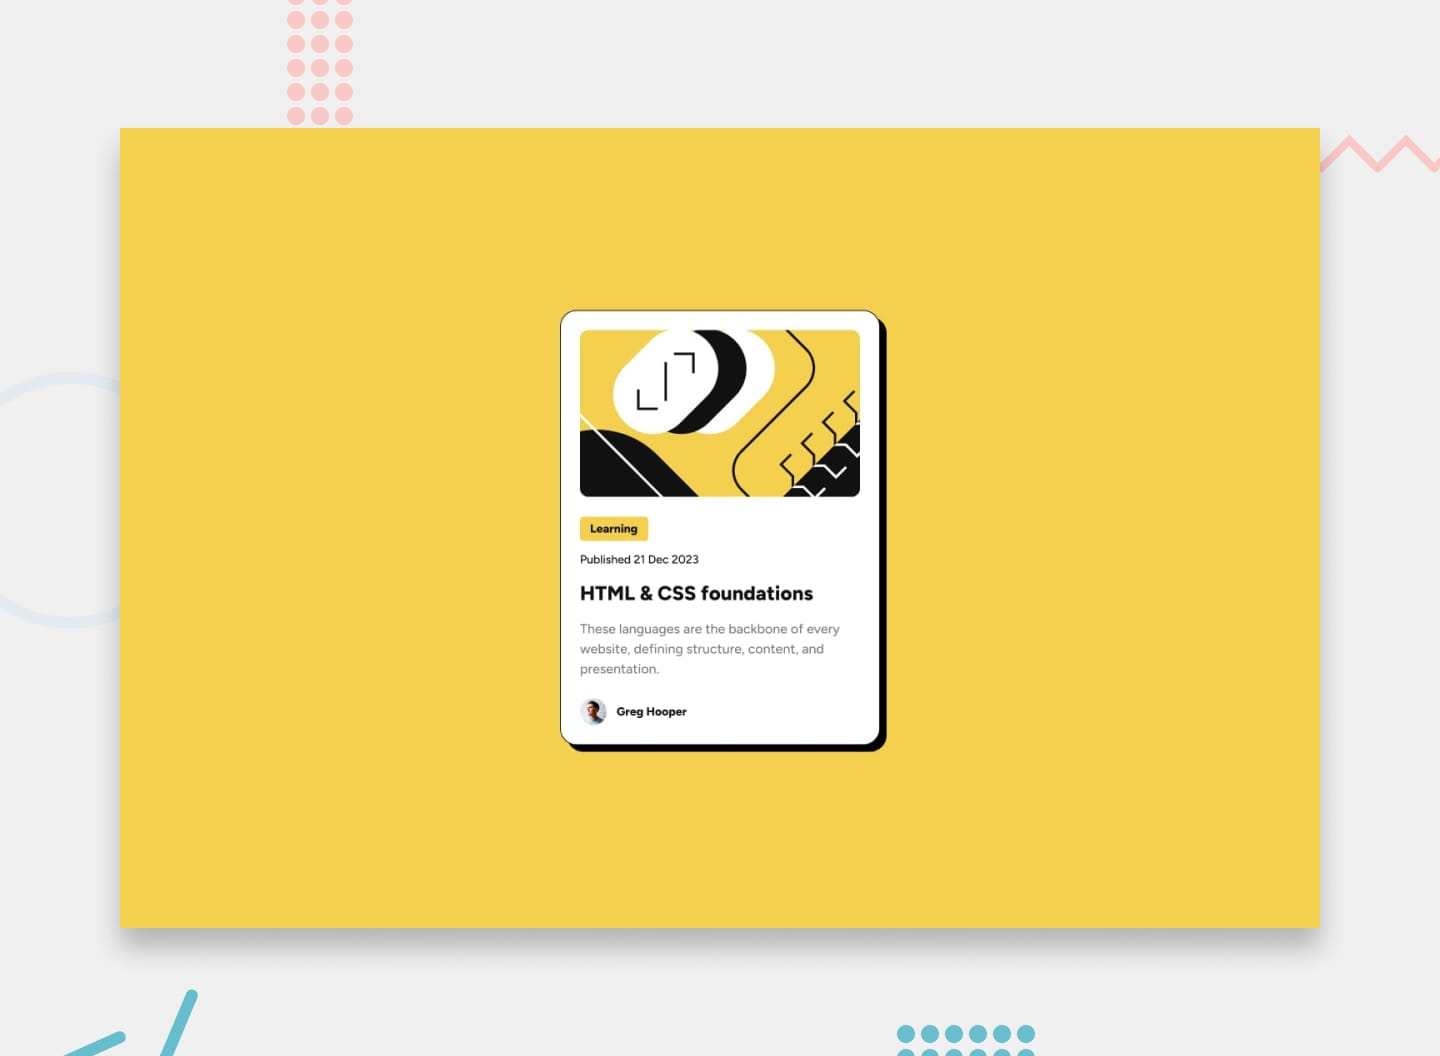
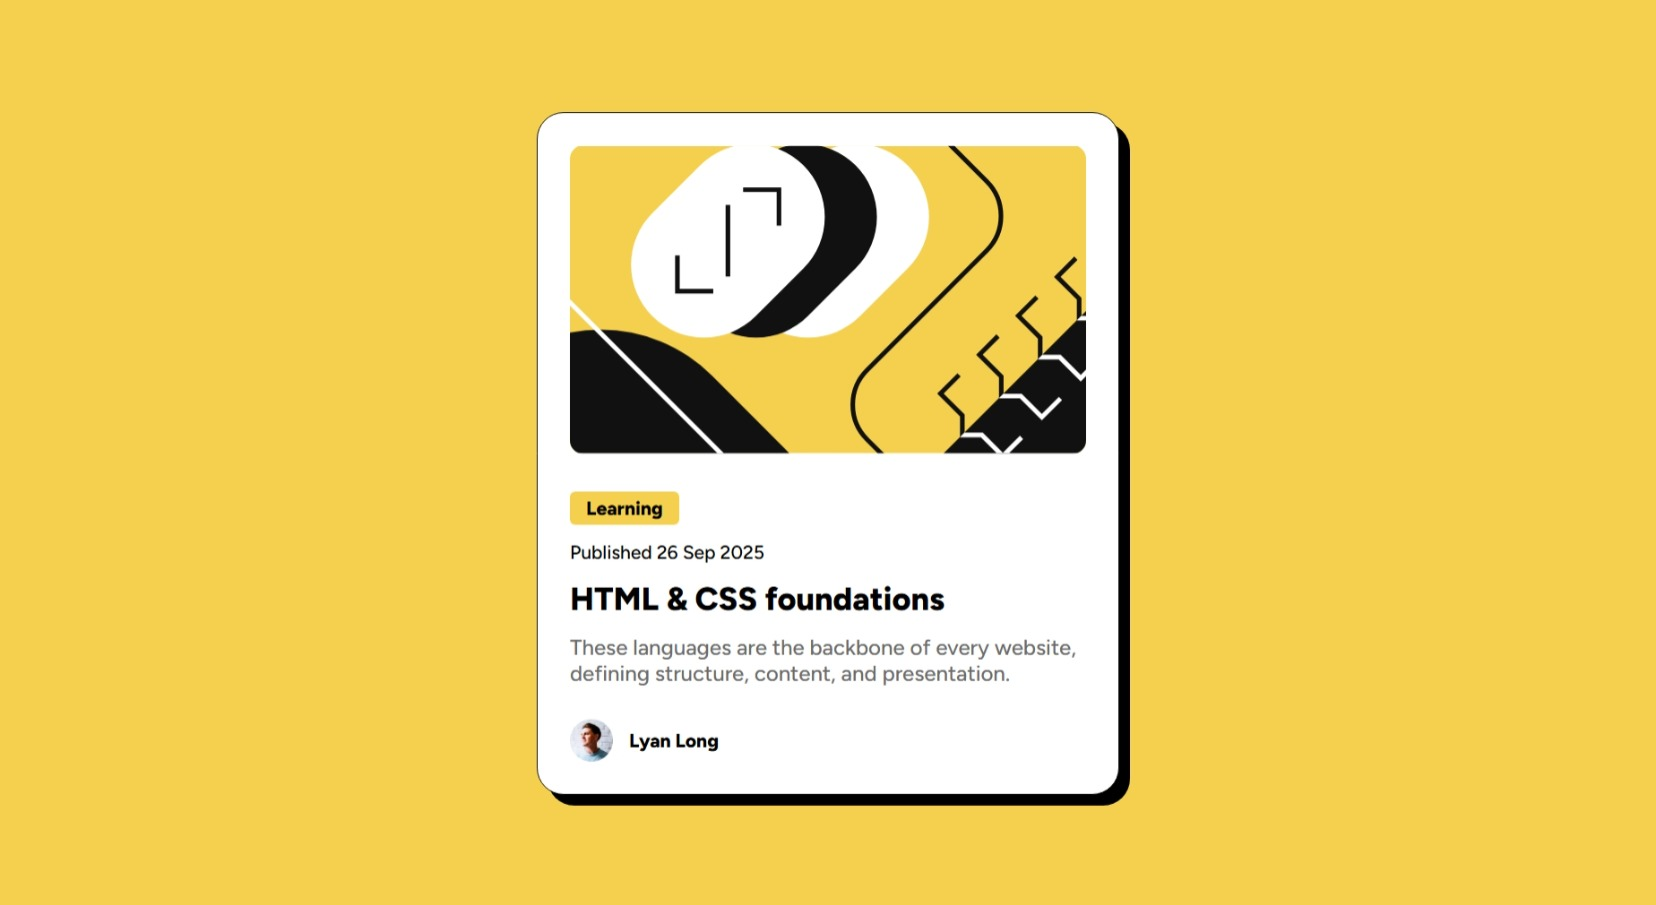
Finalize

diff --git a/styles.css b/styles.css
@@ -1,0 +1,129 @@
+/* ============================
+    FONTS SETUP
+============================ */
+@font-face {
+    font-family: 'Figtree';
+    src: url('./assets/fonts/static/Figtree-ExtraBold.ttf') format('truetype');
+    font-weight: 800;
+    font-style: normal;
+    line-height: 150%;
+    letter-spacing: 0px;
+}
+
+@font-face {
+    font-family: 'Figtree';
+    src: url('./assets/fonts/static/Figtree-Medium.ttf') format('truetype');
+    font-weight: 500;
+    font-style: normal;
+    line-height: 150%;
+    letter-spacing: 0px;
+}
+
+/* ============================
+   COLOR SYSTEM
+============================ */
+:root {
+    --White: hsl(0, 0%, 100%);
+    --Yellow: hsl(47, 88%, 63%);
+    --Gray-950: hsl(0, 0%, 7%);
+    --Gray-500: hsl(0, 0%, 42%);
+}
+
+body {
+    font-family: 'Figtree', sans-serif;
+    background-color: var(--Yellow);
+    margin: 0;
+    padding: 0;
+}
+
+/* ============================
+   BLOG PREVIEW CARD COMPONENT
+============================ */
+
+main {
+    display: flex;
+    justify-content: center;
+    align-items: center;
+    height: 100vh;
+    padding: 0px 24px;
+}
+
+p, h1, h2, h3, h4, h5, h6 {
+    margin: 0;
+}
+
+h1 {
+    font-weight: 800;
+    font-size: 24px;
+}
+
+h1:hover {
+    color: var(--Yellow);
+    cursor: pointer;
+}
+
+h1:focus {
+    color: var(--Yellow);
+}
+
+.card {
+    background-color: var(--White);
+    width: 384px;
+    height: auto;
+    display: flex;
+    flex-direction: column;
+    justify-content: space-between;
+    gap: 24px;
+    padding: 24px;
+    border-radius: 20px;
+    box-shadow: 8px 8px 0px #000000;
+    border: 1px solid var(--Gray-950);
+}
+
+.card__content {
+    gap: 12px;
+    display: flex;
+    flex-direction: column;
+    align-items: flex-start;
+    justify-content: flex-start;
+}
+
+.card__image img {
+    border-radius: 10px;
+    width: 100%;
+}
+
+.category {
+    background-color: var(--Yellow);
+    text-align: center;
+    padding: 4px 12px 4px 12px;
+    border-radius: 4px;
+    font-weight: 800;
+    font-size: 14px;
+}
+
+.published-date {
+    font-size: 14px;
+}
+
+.description {
+    font-weight: 500;
+    font-size: 16px;
+    color: var(--Gray-500);
+}
+
+.card__author {
+    display: flex;
+    align-items: center;
+    gap: 12px;
+}
+
+.card__author_img {
+    width: 32px;
+    height: 32px;
+}
+
+.card__author_name {
+    font-size: 14px;
+    font-weight: 800;
+}

diff --git a/index.html b/index.html
@@ -1,34 +1,42 @@
 <!DOCTYPE html>
 <html lang="en">
+
 <head>
   <meta charset="UTF-8">
-  <meta name="viewport" content="width=device-width, initial-scale=1.0"> <!-- displays site properly based on user's device -->
+  <meta name="viewport" content="width=device-width, initial-scale=1.0">
+  <!-- displays site properly based on user's device -->
 
   <link rel="icon" type="image/png" sizes="32x32" href="./assets/images/favicon-32x32.png">
-  
+  <link rel="stylesheet" href="./styles.css">
   <title>Frontend Mentor | Blog preview card</title>
-
-  <!-- Feel free to remove these styles or customise in your own stylesheet 👍 -->
-  <style>
-    .attribution { font-size: 11px; text-align: center; }
-    .attribution a { color: hsl(228, 45%, 44%); }
-  </style>
 </head>
+
 <body>
-
-  Learning
-
-  Published 21 Dec 2023
-
-  HTML & CSS foundations
-
-  These languages are the backbone of every website, defining structure, content, and presentation.
-
-  Greg Hooper
-  
-  <div class="attribution">
-    Challenge by <a href="https://www.frontendmentor.io?ref=challenge" target="_blank">Frontend Mentor</a>. 
-    Coded by <a href="#">Your Name Here</a>.
-  </div>
+  <main>
+    <div class="card">
+      <section class="card__image">
+        <img src="./assets/images/illustration-article.svg" alt="illustration-article">
+      </section>
+      <section class="card__content">
+        <div class="category">
+          <p>Learning</p>
+        </div>
+        <div class="published-date">
+          <p>Published 26 Sep 2025</p>
+        </div>
+        <h1>HTML & CSS foundations</h1>
+        <div class="description">
+          <p>
+            These languages are the backbone of every website, defining structure, content, and presentation.
+          </p>
+        </div>
+      </section>
+      <section class="card__author">
+        <img class="card__author_img" src="./assets/images/image-avatar.webp" alt="image-avatar">
+        <p class="card__author_name">Lyan Long</p>
+      </section>
+    </div>
+  </main>
 </body>
+
 </html>

diff --git a/README.md b/README.md
@@ -1,93 +1,50 @@
-# Frontend Mentor - Blog preview card
+# Frontend Mentor - Blog preview card solution
 
-![Design preview for the Blog preview card coding challenge](./preview.jpg)
+This is a solution to the [Blog preview card challenge on Frontend Mentor](https://www.frontendmentor.io/challenges/blog-preview-card-ckPaj01IcS). Frontend Mentor challenges help you improve your coding skills by building realistic projects. 
 
-## Welcome! 👋
+## Table of contents
 
-Thanks for checking out this front-end coding challenge.
+- [Overview](#overview)
+  - [The challenge](#the-challenge)
+  - [Screenshot](#screenshot)
+  - [Links](#links)
+- [My process](#my-process)
+  - [Built with](#built-with)
+  - [What I learned](#what-i-learned)
+  - [Continued development](#continued-development)
+  - [Useful resources](#useful-resources)
+- [Author](#author)
+- [Acknowledgments](#acknowledgments)
 
-[Frontend Mentor](https://www.frontendmentor.io) challenges help you improve your coding skills by building realistic projects.
+**Note: Delete this note and update the table of contents based on what sections you keep.**
 
-**To do this challenge, you need a basic understanding of HTML and CSS.**
+## Overview
 
-## The challenge
+### The challenge
 
-Your challenge is to build out this blog preview card and get it looking as close to the design as possible.
-
-You can use any tools you like to help you complete the challenge. So if you've got something you'd like to practice, feel free to give it a go.
-
-Your users should be able to:
+Users should be able to:
 
 - See hover and focus states for all interactive elements on the page
 
-Want some support on the challenge? [Join our community](https://www.frontendmentor.io/community) and ask questions in the **#help** channel.
+### Screenshot
 
-## Where to find everything
+![](./preview.jpg)
 
-Your task is to build out the project to the designs inside the `/design` folder. You will find both a mobile and a desktop version of the design. 
 
-The designs are in JPG static format. Using JPGs will mean that you'll need to use your best judgment for styles such as `font-size`, `padding` and `margin`. 
+### Links
 
-If you would like the design files (we provide Sketch & Figma versions) to inspect the design in more detail, you can [subscribe as a PRO member](https://www.frontendmentor.io/pro).
+- Solution URL: [Add solution URL here](https://your-solution-url.com)
+- Live Site URL: [Add live site URL here](https://longxayda.github.io/blog-preview-card/)
 
-All the required assets for this project are in the `/assets` folder. The images are already exported for the correct screen size and optimized.
+### Built with
 
-We also include variable and static font files for the required fonts for this project. You can choose to either link to Google Fonts or use the local font files to host the fonts yourself. Note that we've removed the static font files for the font weights that aren't needed for this project.
+- Semantic HTML5 markup
+- CSS custom properties
+- Flexbox
 
-There is also a `style-guide.md` file containing the information you'll need, such as color palette and fonts.
 
-## Building your project
 
-Feel free to use any workflow that you feel comfortable with. Below is a suggested process, but do not feel like you need to follow these steps:
 
-1. Initialize your project as a public repository on [GitHub](https://github.com/). Creating a repo will make it easier to share your code with the community if you need help. If you're not sure how to do this, [have a read-through of this Try Git resource](https://try.github.io/).
-2. Configure your repository to publish your code to a web address. This will also be useful if you need some help during a challenge as you can share the URL for your project with your repo URL. There are a number of ways to do this, and we provide some recommendations below.
-3. Look through the designs to start planning out how you'll tackle the project. This step is crucial to help you think ahead for CSS classes to create reusable styles.
-4. Before adding any styles, structure your content with HTML. Writing your HTML first can help focus your attention on creating well-structured content.
-5. Write out the base styles for your project, including general content styles, such as `font-family` and `font-size`.
-6. Start adding styles to the top of the page and work down. Only move on to the next section once you're happy you've completed the area you're working on.
 
-## Deploying your project
 
-As mentioned above, there are many ways to host your project for free. Our recommend hosts are:
 
-- [GitHub Pages](https://pages.github.com/)
-- [Vercel](https://vercel.com/)
-- [Netlify](https://www.netlify.com/)
-
-You can host your site using one of these solutions or any of our other trusted providers. [Read more about our recommended and trusted hosts](https://medium.com/frontend-mentor/frontend-mentor-trusted-hosting-providers-bf000dfebe).
-
-## Create a custom `README.md`
-
-We strongly recommend overwriting this `README.md` with a custom one. We've provided a template inside the [`README-template.md`](./README-template.md) file in this starter code.
-
-The template provides a guide for what to add. A custom `README` will help you explain your project and reflect on your learnings. Please feel free to edit our template as much as you like.
-
-Once you've added your information to the template, delete this file and rename the `README-template.md` file to `README.md`. That will make it show up as your repository's README file.
-
-## Submitting your solution
-
-Submit your solution on the platform for the rest of the community to see. Follow our ["Complete guide to submitting solutions"](https://medium.com/frontend-mentor/a-complete-guide-to-submitting-solutions-on-frontend-mentor-ac6384162248) for tips on how to do this.
-
-Remember, if you're looking for feedback on your solution, be sure to ask questions when submitting it. The more specific and detailed you are with your questions, the higher the chance you'll get valuable feedback from the community.
-
-## Sharing your solution
-
-There are multiple places you can share your solution:
-
-1. Share your solution page in the **#finished-projects** channel of our [community](https://www.frontendmentor.io/community). 
-2. Tweet [@frontendmentor](https://twitter.com/frontendmentor) and mention **@frontendmentor**, including the repo and live URLs in the tweet. We'd love to take a look at what you've built and help share it around.
-3. Share your solution on other social channels like LinkedIn.
-4. Blog about your experience building your project. Writing about your workflow, technical choices, and talking through your code is a brilliant way to reinforce what you've learned. Great platforms to write on are [dev.to](https://dev.to/), [Hashnode](https://hashnode.com/), and [CodeNewbie](https://community.codenewbie.org/).
-
-We provide templates to help you share your solution once you've submitted it on the platform. Please do edit them and include specific questions when you're looking for feedback. 
-
-The more specific you are with your questions the more likely it is that another member of the community will give you feedback.
-
-## Got feedback for us?
-
-We love receiving feedback! We're always looking to improve our challenges and our platform. So if you have anything you'd like to mention, please email hi[at]frontendmentor[dot]io.
-
-This challenge is completely free. Please share it with anyone who will find it useful for practice.
-
-**Have fun building!** 🚀
